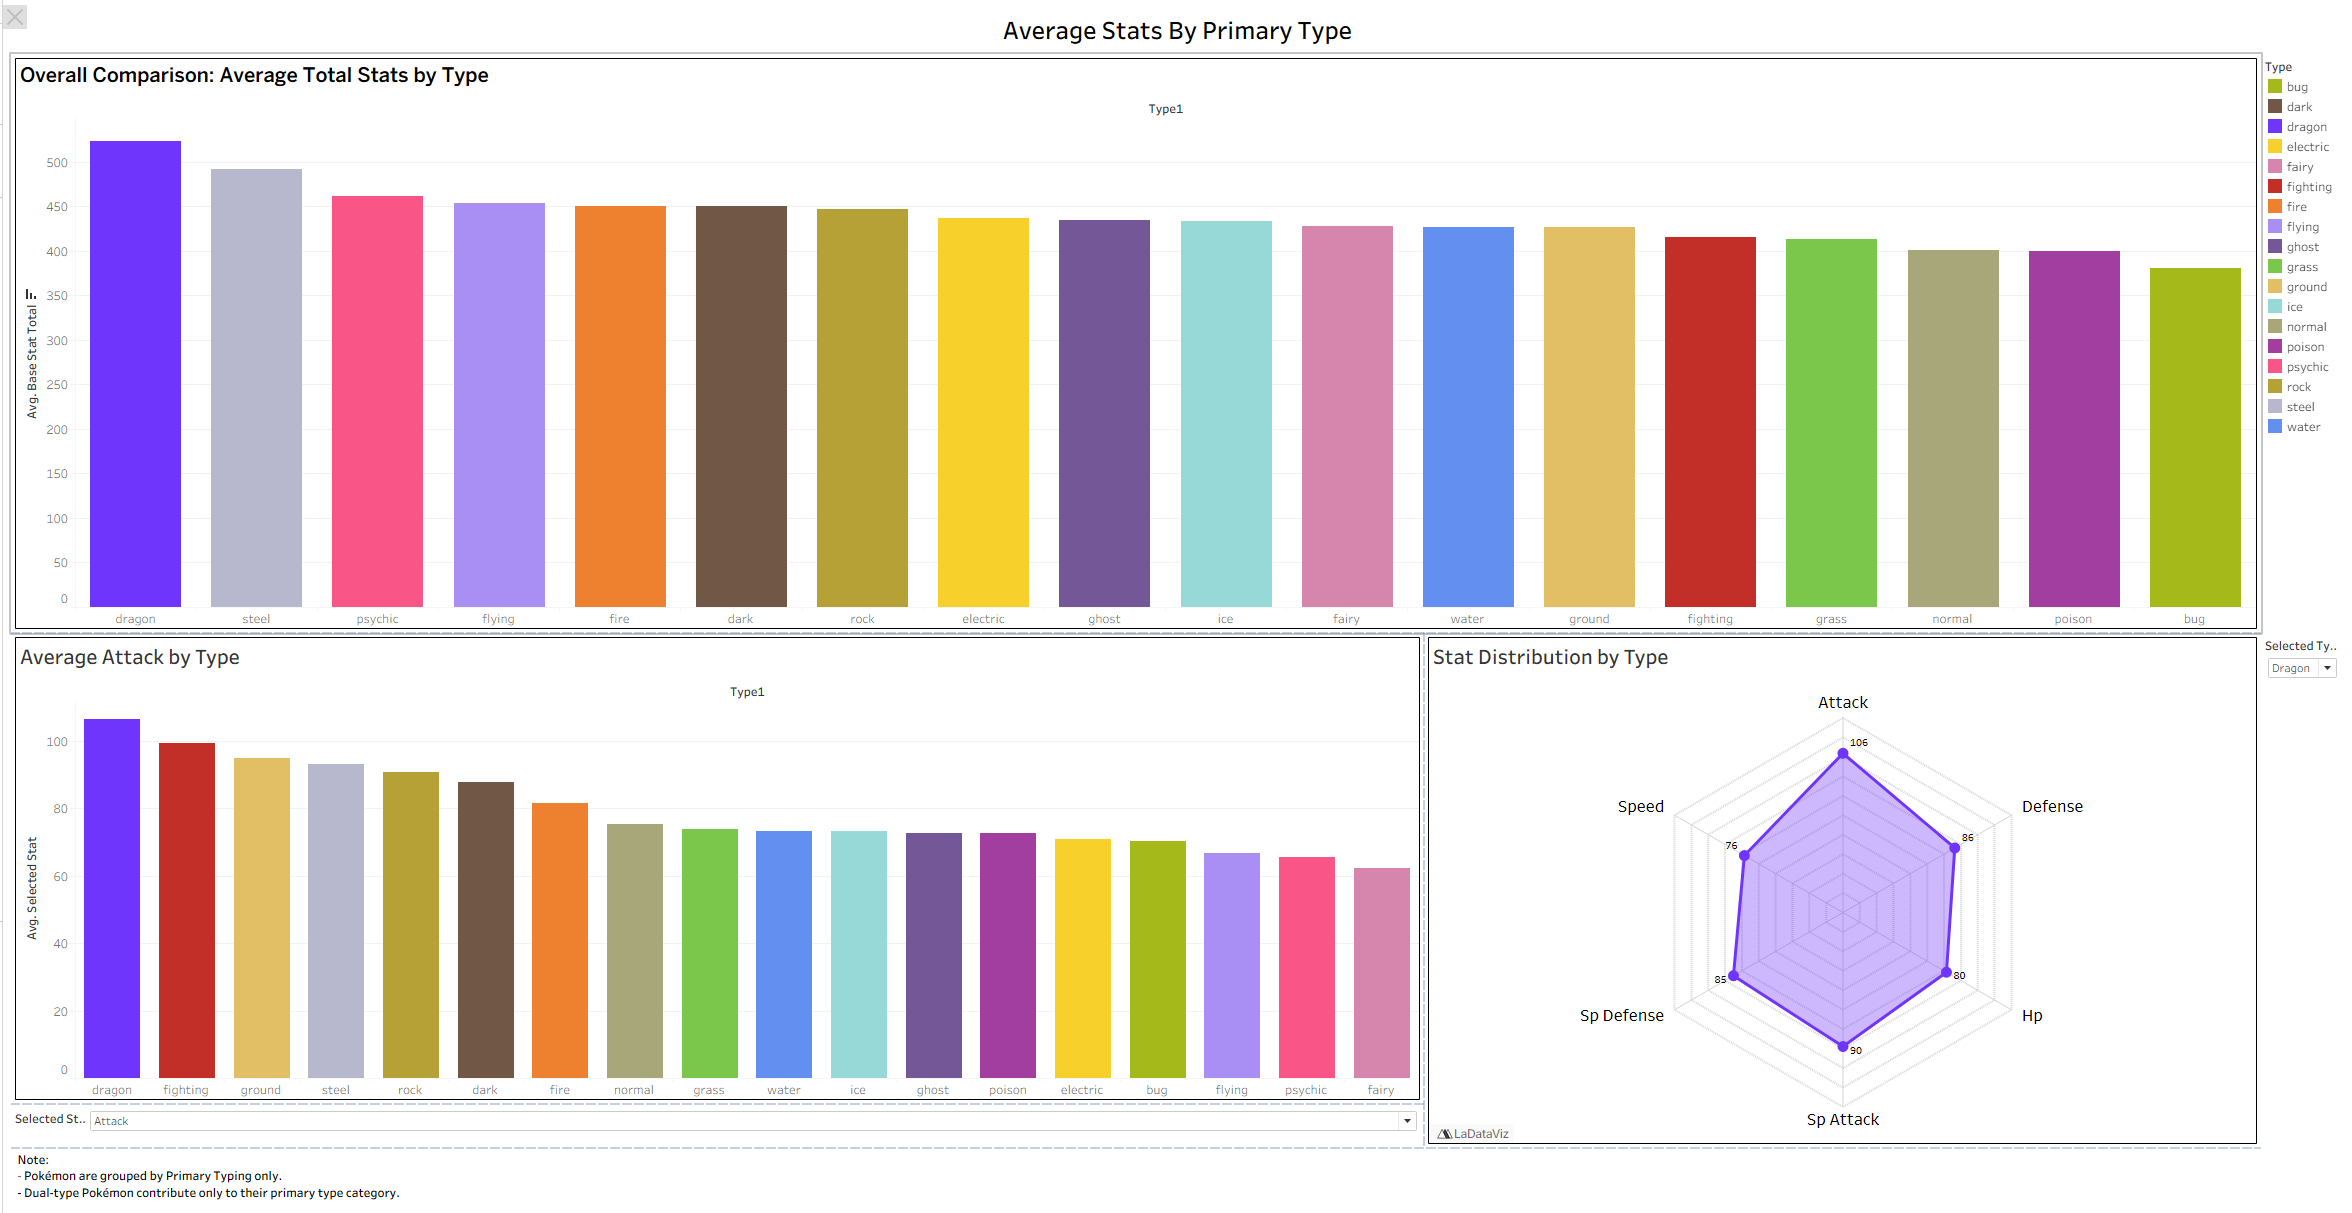
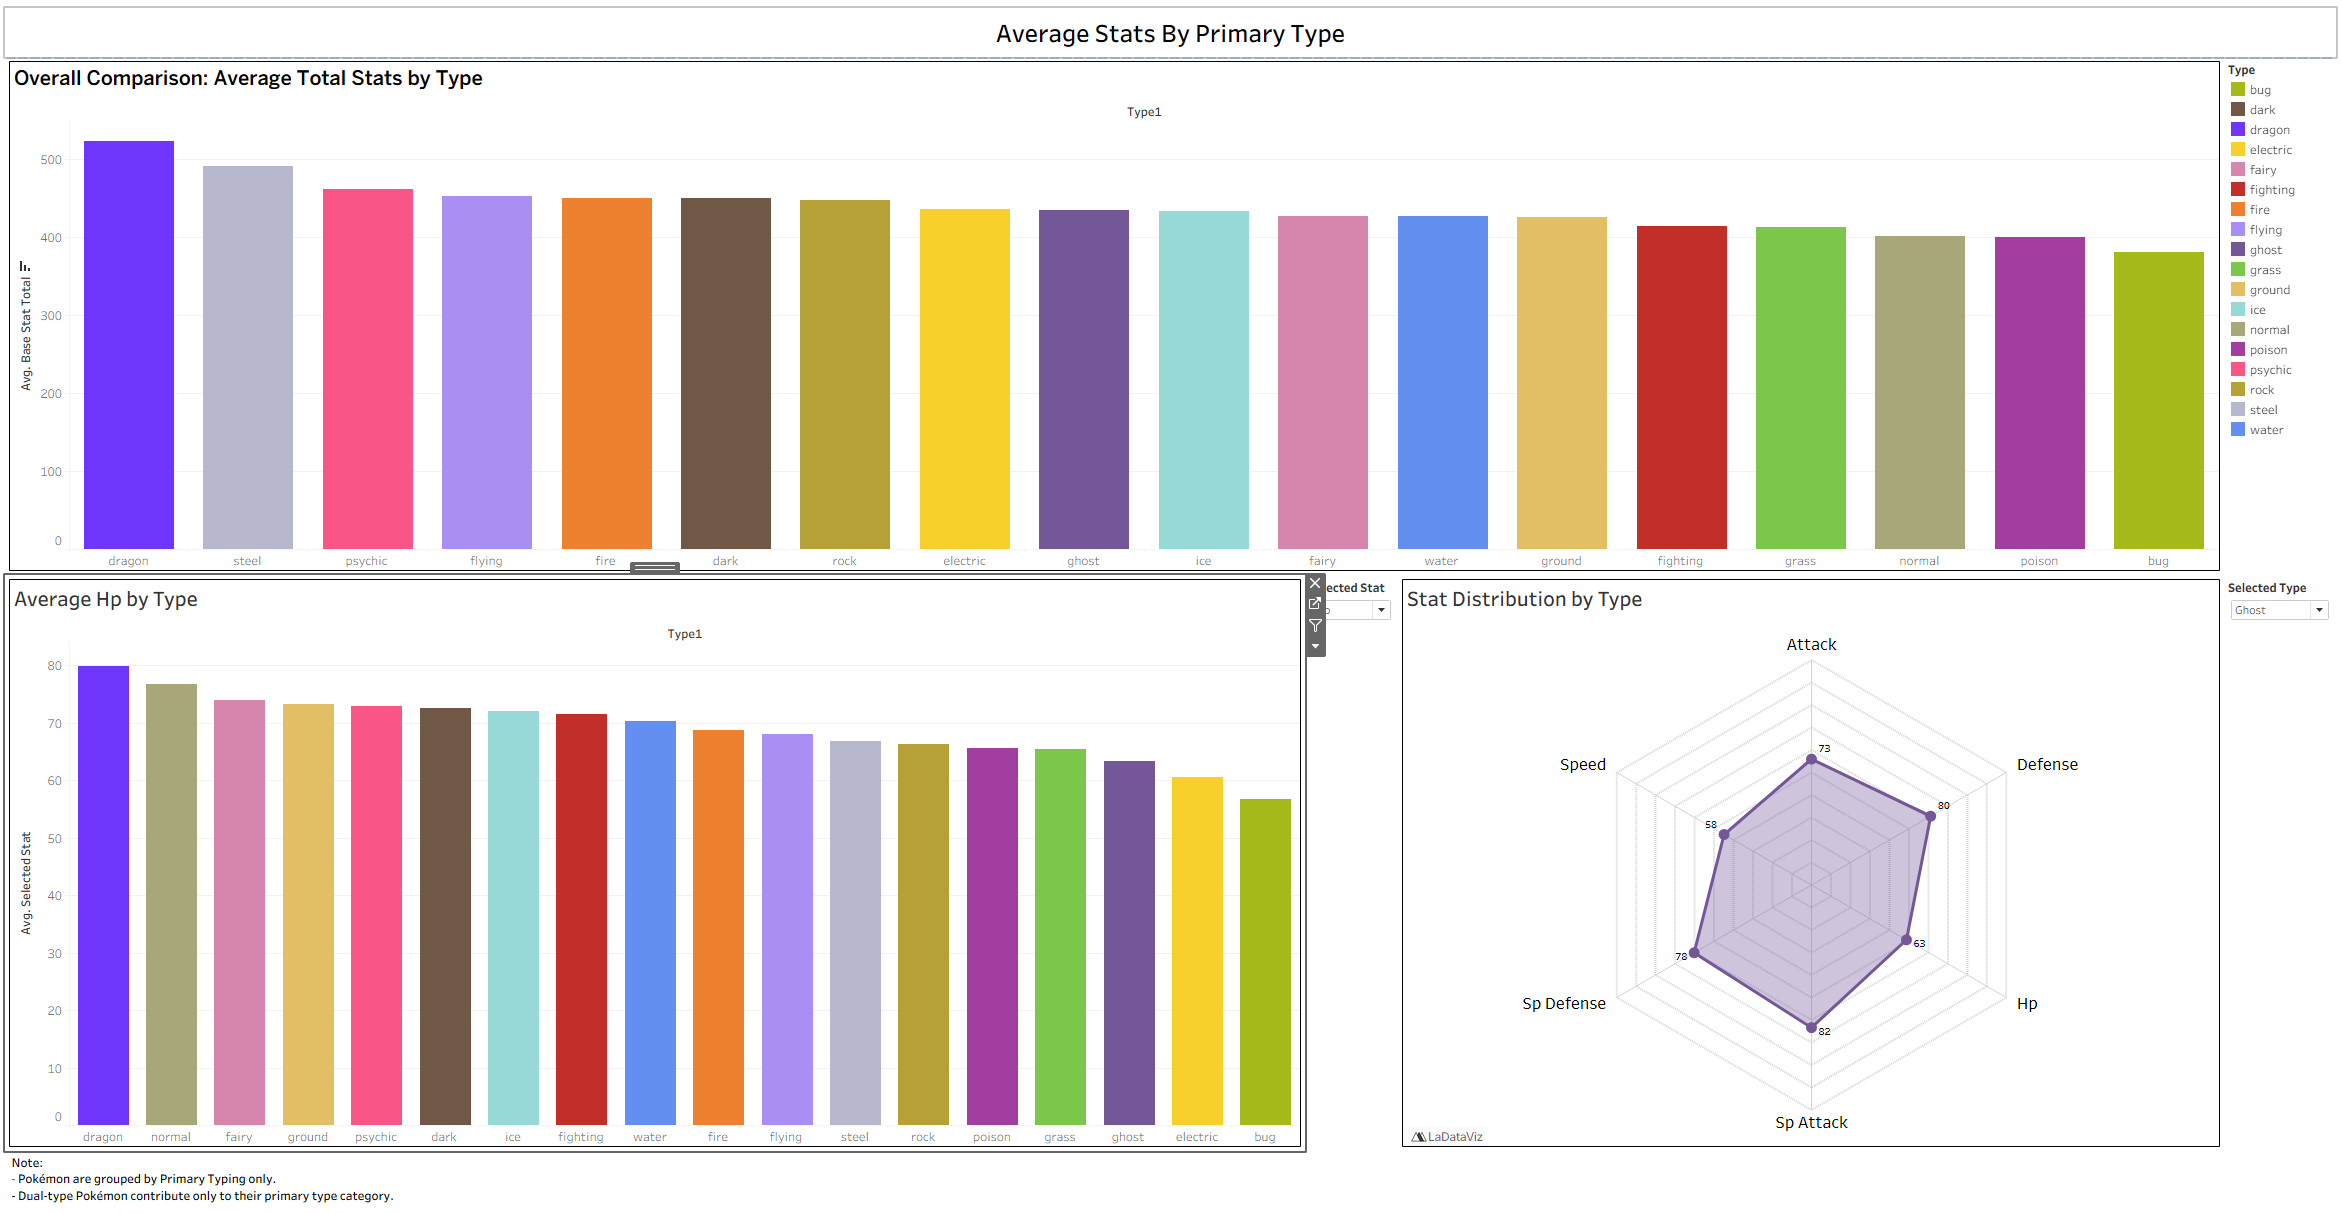
Updated ReadMe + Formatting updates in Tableau
- Updated ReadMe to update my progress
- Some changes to the formatting in tableau dashboards so it looks better
- Created folders for cod, data and viz so everything is more organized

diff --git a/README.md b/README.md
@@ -23,5 +23,15 @@ NOTE: Only includes the Pokémon from the first 7 Generations (Not including meg
    a. Created a Dashboard that shows all the average stats for each type  
 		- Dragon type has the highest stats based on total stats, but Dragon is also always in the top 3 in every other individual stat  
 		- Bug is the lowest total stat and seems to be at the bottom of most graphs
+  
+   ![](images/type_stat_distribution.png)  
 
-   ![](images/type_stat_distribution.png)
+   b. Created a Dashboard that shows information about pokemon across the 7 generation  
+      - Number of each type in corresponding generation  
+      - Frequency of type combinations  
+      - Number of pokemon in each generation  
+        
+   ![](images/generation.png)  
+
+  
+4. TODO - Answer different questions that the dashboard and charts answer
